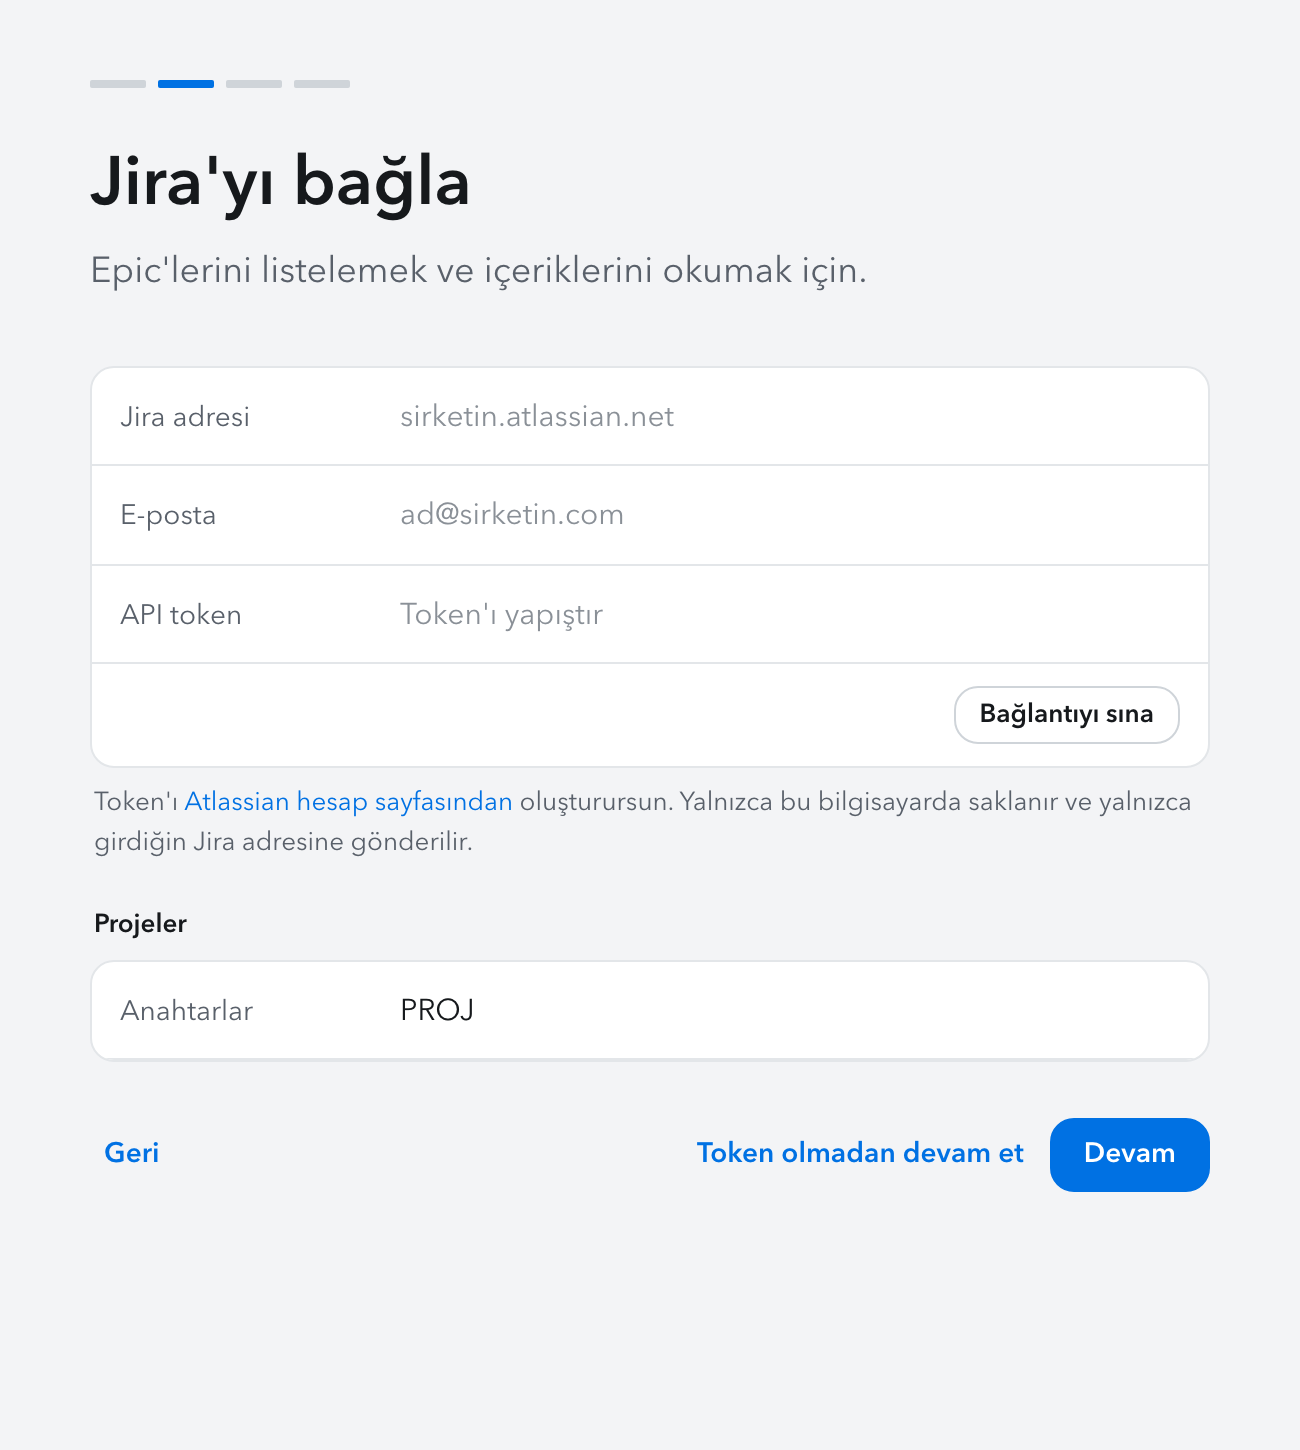
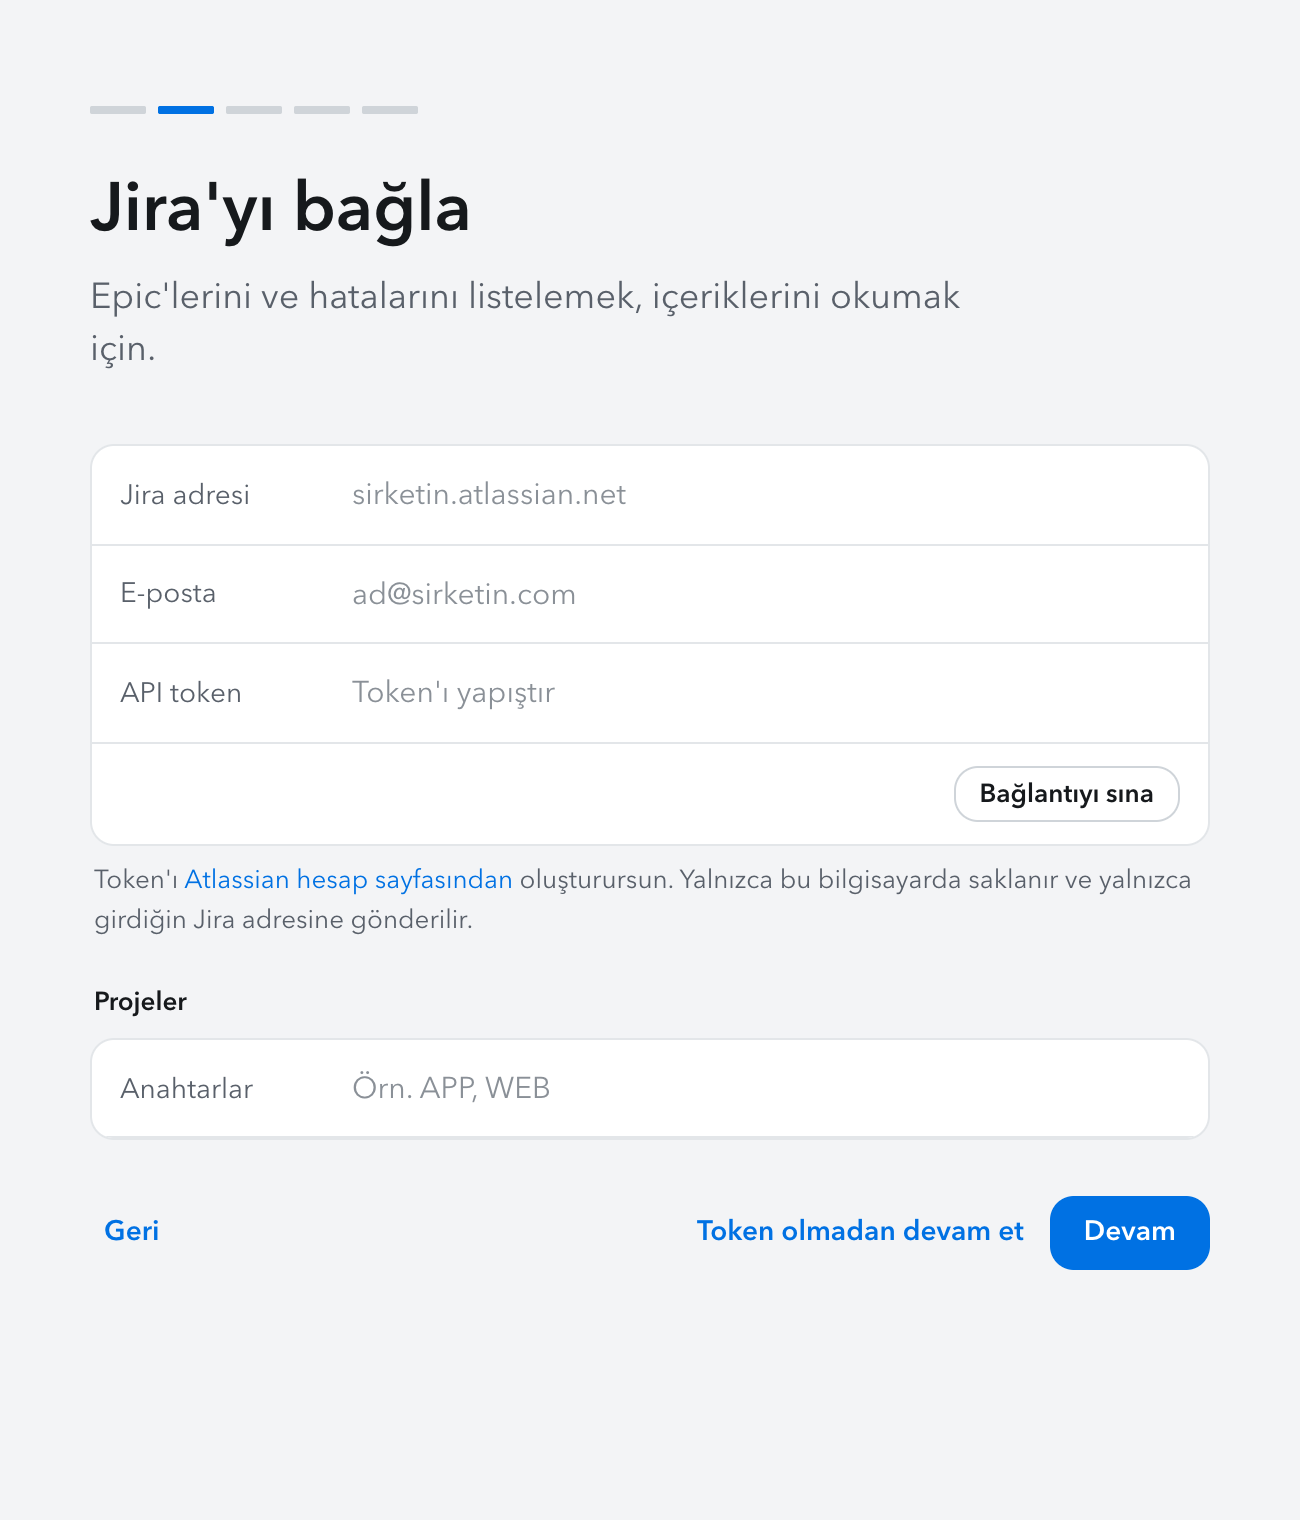
README: güncel arayüzle ekran görüntüleri, altı adımlı kurulum

diff --git a/README.en.md b/README.en.md
@@ -143,7 +143,7 @@ npm start
 
 ### 5. Finish the first-run steps
 
-On first launch, qaHere walks you through four short steps.
+On first launch, qaHere walks you through five short steps.
 
 <table>
   <tr>
@@ -156,15 +156,21 @@ On first launch, qaHere walks you through four short steps.
   </tr>
   <tr>
     <td><img src="docs/screenshots/setup-3-jira.png" alt="Jira connection"></td>
-    <td><img src="docs/screenshots/setup-4-sources.png" alt="Source selection"></td>
+    <td><img src="docs/screenshots/setup-4-profile.png" alt="Who are you: role, platforms, team"></td>
   </tr>
   <tr>
     <td><b>Connect Jira.</b> Your Jira address (<code>yourcompany.atlassian.net</code>), your email and an API token. Create the token on your <a href="https://id.atlassian.com/manage-profile/security/api-tokens">Atlassian account page</a> with <i>Create API token</i> and paste it. <i>Bağlantıyı sına</i> (Test connection) lists the projects you can see; pick the ones you want in the list.</td>
+    <td><b>Who are you?</b> Your role, the platforms you test and your team's Jira boards. With <i>Takımım</i> (My team) selected, the list is filtered to those boards, and Claude writes the guide for you. All optional; change them later in Settings.</td>
+  </tr>
+  <tr>
+    <td><img src="docs/screenshots/setup-5-sources.png" alt="Source selection"></td>
+    <td><img src="docs/screenshots/setup-6-look.png" alt="Finishing touch"></td>
+  </tr>
+  <tr>
     <td><b>Choose sources.</b> Where should qaHere look besides Jira? Turn on the ones you connected in step 3. <i>Bağlantıları denetle</i> (Check connections) confirms they're really connected in Claude Code.</td>
+    <td><b>Finishing touch.</b> Optionally pick a workspace name, an accent color and a model, then press <i>Kullanmaya başla</i> (Start using).</td>
   </tr>
 </table>
-
-In the last step you can optionally set a workspace name and an accent color, then press **Kullanmaya başla** (Start using).
 
 **A Jira token is optional.** If you choose *Token olmadan devam et* (Continue without a token), the epic list and title search won't work, but you can still type an issue key (e.g. `PROJ-123`) and generate a guide. Claude then reads Jira through its Atlassian connector, which is a little slower.
 

diff --git a/README.md b/README.md
@@ -141,7 +141,7 @@ npm start
 
 ### 5. İlk açılış adımlarını tamamla
 
-İlk açılışta qaHere seni dört kısa adımda kurulumdan geçirir.
+İlk açılışta qaHere seni beş kısa adımda kurulumdan geçirir.
 
 <table>
   <tr>
@@ -154,15 +154,21 @@ npm start
   </tr>
   <tr>
     <td><img src="docs/screenshots/setup-3-jira.png" alt="Jira bağlantısı"></td>
-    <td><img src="docs/screenshots/setup-4-sources.png" alt="Kaynak seçimi"></td>
+    <td><img src="docs/screenshots/setup-4-profile.png" alt="Sen kimsin: rol, platformlar, takım"></td>
   </tr>
   <tr>
     <td><b>Jira'yı bağla.</b> Jira adresin (<code>sirketin.atlassian.net</code>), e-postan ve bir API token. Token'ı <a href="https://id.atlassian.com/manage-profile/security/api-tokens">Atlassian hesap sayfasında</a> <i>Create API token</i> ile oluştur ve yapıştır. <i>Bağlantıyı sına</i> görebildiğin projeleri listeler; listede görmek istediklerini seç.</td>
+    <td><b>Sen kimsin?</b> Rolün, test ettiğin platformlar ve takımının Jira panoları. Liste <i>Takımım</i> seçiliyken bu panolara göre süzülür; Claude da rehberi sana göre yazar. Hepsi isteğe bağlı, sonradan Ayarlar'dan değişir.</td>
+  </tr>
+  <tr>
+    <td><img src="docs/screenshots/setup-5-sources.png" alt="Kaynak seçimi"></td>
+    <td><img src="docs/screenshots/setup-6-look.png" alt="Son dokunuş"></td>
+  </tr>
+  <tr>
     <td><b>Kaynakları seç.</b> Rehber yazılırken Jira'nın yanında nerelere bakılsın? 3. adımda bağladıklarını aç. <i>Bağlantıları denetle</i> hepsinin Claude Code'da gerçekten bağlı olduğunu doğrular.</td>
+    <td><b>Son dokunuş.</b> İstersen bir çalışma alanı adı, vurgu rengi ve model seç, sonra <i>Kullanmaya başla</i>'ya bas.</td>
   </tr>
 </table>
-
-Son adımda istersen bir çalışma alanı adı ve vurgu rengi seçip **Kullanmaya başla**'ya bas.
 
 **Jira token'ı şart değil.** *Token olmadan devam et* dersen epic listesi ve başlıkla arama çalışmaz, ama bir iş anahtarını (ör. `PROJ-123`) elle yazıp rehber üretebilirsin. Bu durumda Jira içeriğini Claude, Atlassian bağlantısıyla okur; biraz daha yavaştır.
 
